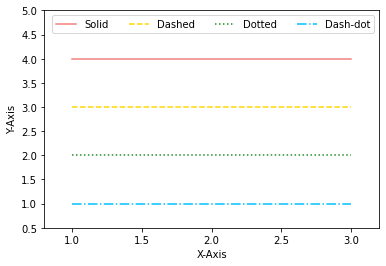
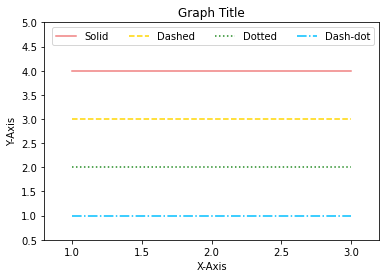
matplotlib explanation

diff --git a/_posts/2022-05-30-Matplotlib.md b/_posts/2022-05-30-Matplotlib.md
@@ -1,0 +1,244 @@
+---
+title: "Python Library 1. matplotlib"
+header:
+  overlay_image: /assets/images/maxim-hopman-fiXLQXAhCfk-unsplash.jpg
+  caption: "Photo By @Maxim Hopman On [**Unsplash**](https://unsplash.com/@nampoh)"
+categories:
+  - Computer Science
+  - Python
+tags:
+  - Python Library
+  - Matplotlib
+excerpt: >
+  파이썬의 다양한 라이브러리에 대해 공부해보자.<br />
+use_math: true
+---
+
+## 1. matplotlib 소개
+
+**matplotlib**는 주어진 데이터를 그래프나 차트로 시각화하는 것을 도와주는 Python의 라이브러리이다. 후술될 numpy, pandas 등의 라이브러리와 같이 쓰일 수 있다. 이 라이브러리는 Python의 내장 라이브러리가 아니기 때문에 **별도의 설치 과정**이 필요하다.
+{: style="text-align: justify;"}
+
+설치 과정은 간단하다. 명령 프롬프트(cmd)를 열고, `pip install matplotlib`를 입력하고 Enter 키를 누른다.
+{: style="text-align: justify;"}
+
+```
+Microsoft Windows [Version 10.0.19043.1706]
+(c) Microsoft Corporation. All rights reserved.
+
+C:\Users\jenna>pip install matplotlib
+```
+
+필자는 이미 matplotlib가 설치되어 있기 때문에 아래 이미지와 같이 출력된다.
+{: style="text-align: justify;"}
+
+```
+Microsoft Windows [Version 10.0.19043.1706]
+(c) Microsoft Corporation. All rights reserved.
+
+C:\Users\jenna>pip install matplotlib
+Requirement already satisfied: matplotlib in c:\programdata\anaconda3\lib\site-packages (3.4.3)
+Requirement already satisfied: pyparsing>=2.2.1 in c:\programdata\anaconda3\lib\site-packages (from matplotlib) (3.0.4)
+Requirement already satisfied: pillow>=6.2.0 in c:\programdata\anaconda3\lib\site-packages (from matplotlib) (8.4.0)
+Requirement already satisfied: python-dateutil>=2.7 in c:\programdata\anaconda3\lib\site-packages (from matplotlib) (2.8.2)
+Requirement already satisfied: kiwisolver>=1.0.1 in c:\programdata\anaconda3\lib\site-packages (from matplotlib) (1.3.1)
+Requirement already satisfied: numpy>=1.16 in c:\programdata\anaconda3\lib\site-packages (from matplotlib) (1.20.3)
+Requirement already satisfied: cycler>=0.10 in c:\programdata\anaconda3\lib\site-packages (from matplotlib) (0.10.0)
+Requirement already satisfied: six in c:\programdata\anaconda3\lib\site-packages (from cycler>=0.10->matplotlib) (1.16.0)
+
+C:\Users\jenna>
+```
+
+설치한 matplotlib를 사용하고자 한다면, 반드시 `import matplotlib` 명령어를 이용해 먼저 라이브러리를 **import**해야 한다.
+{: style="text-align: justify;"}
+
+## 2. matplotlib 활용
+
+matplotlib 튜토리얼: [https://wikidocs.net/book/5011](https://wikidocs.net/book/5011)
+{: style="text-align: justify;"}
+
+위의 링크에 matplotlib 라이브러리에 대한 자세한 설명이 있다. 여기서는 자주 쓰이는 함수만 간단하게 설명하고자 한다. 지금부터 설명할 예제는 **Jupyter Notebook** 혹은 **Google Collab** 환경에서 실행하는 것을 추천한다.
+{: style="text-align: justify;"}
+
+```python
+import matplotlib.pyplot as plt
+
+plt.plot([0, 1, 4, 10])
+plt.show()
+```
+
+<figure class="align-center">
+  <img src="/assets/images/matplotlib_1.png" alt="">
+</figure>
+
+위의 코드는 단순한 꺾은선 그래프를 그린다. `plt.plot([0, 1, 4, 10])`와 같이 리스트 혹은 튜플, 후술될 Numpy Array의 형태로 값을 입력하면 Y 값으로 인식해 그래프를 그린다. 따로 명시된 바가 없으면 X 값은 기본적으로 `[0, 1, 2, 3]`이 되어 (0, 0), (1, 1), (2, 4), (3, 10)을 잇는 그래프가 나타난다.
+{: style="text-align: justify;"}
+
+```python
+import matplotlib.pyplot as plt
+
+plt.plot([1, 2, 3, 4], [0, 1, 4, 10])
+plt.show()
+```
+
+위의 경우 전자는 X 값, 후자는 Y 값을 의미한다.
+{: style="text-align: justify;"}
+
+matplotlib를 통해 그리는 그래프는 선의 종류와 색상도 지정할 수 있다. 아래 예제를 살펴보자.
+{: style="text-align: justify;"}
+
+```python
+import matplotlib.pyplot as plt
+
+plt.plot([1, 2, 3], [4, 4, 4], '-', color='lightcoral', label='Solid')
+plt.plot([1, 2, 3], [3, 3, 3], '--', color='gold', label='Dashed')
+plt.plot([1, 2, 3], [2, 2, 2], ':', color='forestgreen', label='Dotted')
+plt.plot([1, 2, 3], [1, 1, 1], '-.', color='deepskyblue', label='Dash-dot')
+plt.xlabel('X-Axis')
+plt.ylabel('Y-Axis')
+plt.axis([0.8, 3.2, 0.5, 5.0])
+plt.legend(loc='upper right', ncol=4)
+plt.title('Graph Title')
+plt.show()
+```
+
+<figure class="align-center">
+  <img src="/assets/images/matplotlib_2.png" alt="">
+</figure>
+
+코드를 차근차근 살펴보자.
+{: style="text-align: justify;"}
+
+- 선의 종류
+
+| Linestyle | Name     | Description                                     |
+| :-------: | -------- | ----------------------------------------------- |
+|   `'-'`   | Solid    | 일반 실선 형태이다.                             |
+|  `'--'`   | Dashed   | 긴 점선 형태이다.                               |
+|   `':'`   | Dotted   | 짧은 점선 형태이다.                             |
+|  `'-.'`   | Dash-Dot | 긴 점선과 짧은 점선이 번갈아 나타나는 형태이다. |
+
+- 선의 색상
+
+`plt.plot(color='color_name')` 방식으로 선의 **색상**을 지정할 수 있다. 'r', 'g', 'b', 'c', 'm', 'y', 'k', 'w' 와 같은 일반 색상부터 Tableau 색상, Hex Code, CSS 색상을 지원한다.
+{: style="text-align: justify;"}
+
+- 선의 Label
+
+`plt.plot(label='label_name')` 방식으로 선의 **Label**을 지정할 수 있다. 지정된 Label은 추후에 설명될 범례에 표시된다.
+{: style="text-align: justify;"}
+
+- 축의 Label
+
+`plt.xlabel('X-Axis')`, `plt.ylabel('Y-Axis')`로 표현할 수 있다. 괄호 안에 각 축에 붙일 Label명을 작성한다.
+{: style="text-align: justify;"}
+
+- 축의 범위
+
+`plt.axis([x_min, x_max, y_min, y_max])` 로 표현할 수 있다. 각 **축의 범위**를 지정하는 역할을 한다.
+{: style="text-align: justify;"}
+
+- 범례
+
+`plt.legend()` 방식으로 그래프의 범례를 표기할 지 정할 수 있다. 괄호 안에는 다양한 파라미터를 통해 세부 내용을 지정 가능하다. `loc` 파라미터는 범례의 **위치**, `ncol` 파라미터는 범례의 **열 개수**, `fontsize` 파라미터는 범례 **폰트의 크기**, `frameon` 파라미터는 범례 **테두리의 존재 유무**를 의미한다. 이 외에도 다양한 파라미터가 존재한다.
+{: style="text-align: justify;"}
+
+- 그래프 제목
+
+`plt.title('Graph Title')` 방식으로 그래프 제목을 설정할 수 있다.
+{: style="text-align: justify;"}
+
+- 마커
+
+선으로 된 그래프 위에는 마커를 지정할 수 있다. 아래 예제를 살펴보자.
+{: style="text-align: justify;"}
+
+```python
+import matplotlib.pyplot as plt
+
+plt.plot([1, 2, 3, 4], [2, 3, 5, 10], 'bo-')
+plt.show()
+```
+
+<figure class="align-center">
+  <img src="/assets/images/matplotlib_3.png" alt="">
+</figure>
+
+`'bo-'`에서 b는 색상, o는 마커의 종류, -는 선의 종류를 의미한다. 선의 종류와 색상은 위에서 언급된 것과 동일한 방식으로 작성하면 된다. 아래는 마커 중 일부를 나타낸 표이다.
+{: style="text-align: justify;"}
+
+| Marker | Name          | Description           |
+| :----: | ------------- | --------------------- |
+| `'o'`  | Circle        | 원형 마커             |
+| `'s'`  | Square        | 사각형 마커           |
+| `'v'`  | Triangle_Down | 아래 방향 삼각형 마커 |
+| `'^'`  | Triangle_Up   | 위 방향 삼각형 마커   |
+
+matplotlib를 통해 꺾은선 그래프 뿐만 아니라 다양한 형태의 그래프도 그릴 수 있다.
+{: style="text-align: justify;"}
+
+- 막대 그래프
+
+```python
+import matplotlib.pyplot as plt
+import numpy as np
+
+x = np.arange(3)
+years = ['2018', '2019', '2020']
+values = [100, 400, 900]
+
+plt.bar(x, values)
+plt.xticks(x, years)
+
+plt.show()
+```
+
+<figure class="align-center">
+  <img src="/assets/images/matplotlib_4.png" alt="">
+</figure>
+
+꺾은선/선형 그래프에서 사용하는 plt.plot() 함수와는 다르게, 막대 그래프를 그리기 위해서 **plt.bar()**라는 함수를 사용해야 한다. 이 함수의 사용법은 plt.plot()와 동일하다. 또 **plt.xticks()** 함수를 이용해 X 축에 **눈금을 설정**할 수 있다.
+{: style="text-align: justify;"}
+
+- 수평 막대 그래프
+
+```python
+import matplotlib.pyplot as plt
+import numpy as np
+
+y = np.arange(3)
+years = ['2018', '2019', '2020']
+values = [100, 400, 900]
+
+plt.barh(y, values)
+plt.yticks(y, years)
+
+plt.show()
+```
+
+<figure class="align-center">
+  <img src="/assets/images/matplotlib_5.png" alt="">
+</figure>
+
+- 산점도
+
+```python
+import matplotlib.pyplot as plt
+import numpy as np
+
+np.random.seed(0)
+
+n = 50
+x = np.random.rand(n)
+y = np.random.rand(n)
+
+plt.scatter(x, y)
+plt.show()
+```
+
+<figure class="align-center">
+  <img src="/assets/images/matplotlib_6.png" alt="">
+</figure>
+
+산점도란 두 변수의 상관관계를 좌표평면에 점으로 나타내는 그래프이다. 위의 코드를 살펴보면, 후술될 numpy 라이브러리의 rand 함수를 이용해 임의의 숫자를 x와 y에 각각 50개씩 배정을 했다. 그 후, **plt.scatter()** 함수를 사용해 도식화했다.
+{: style="text-align: justify;"}
